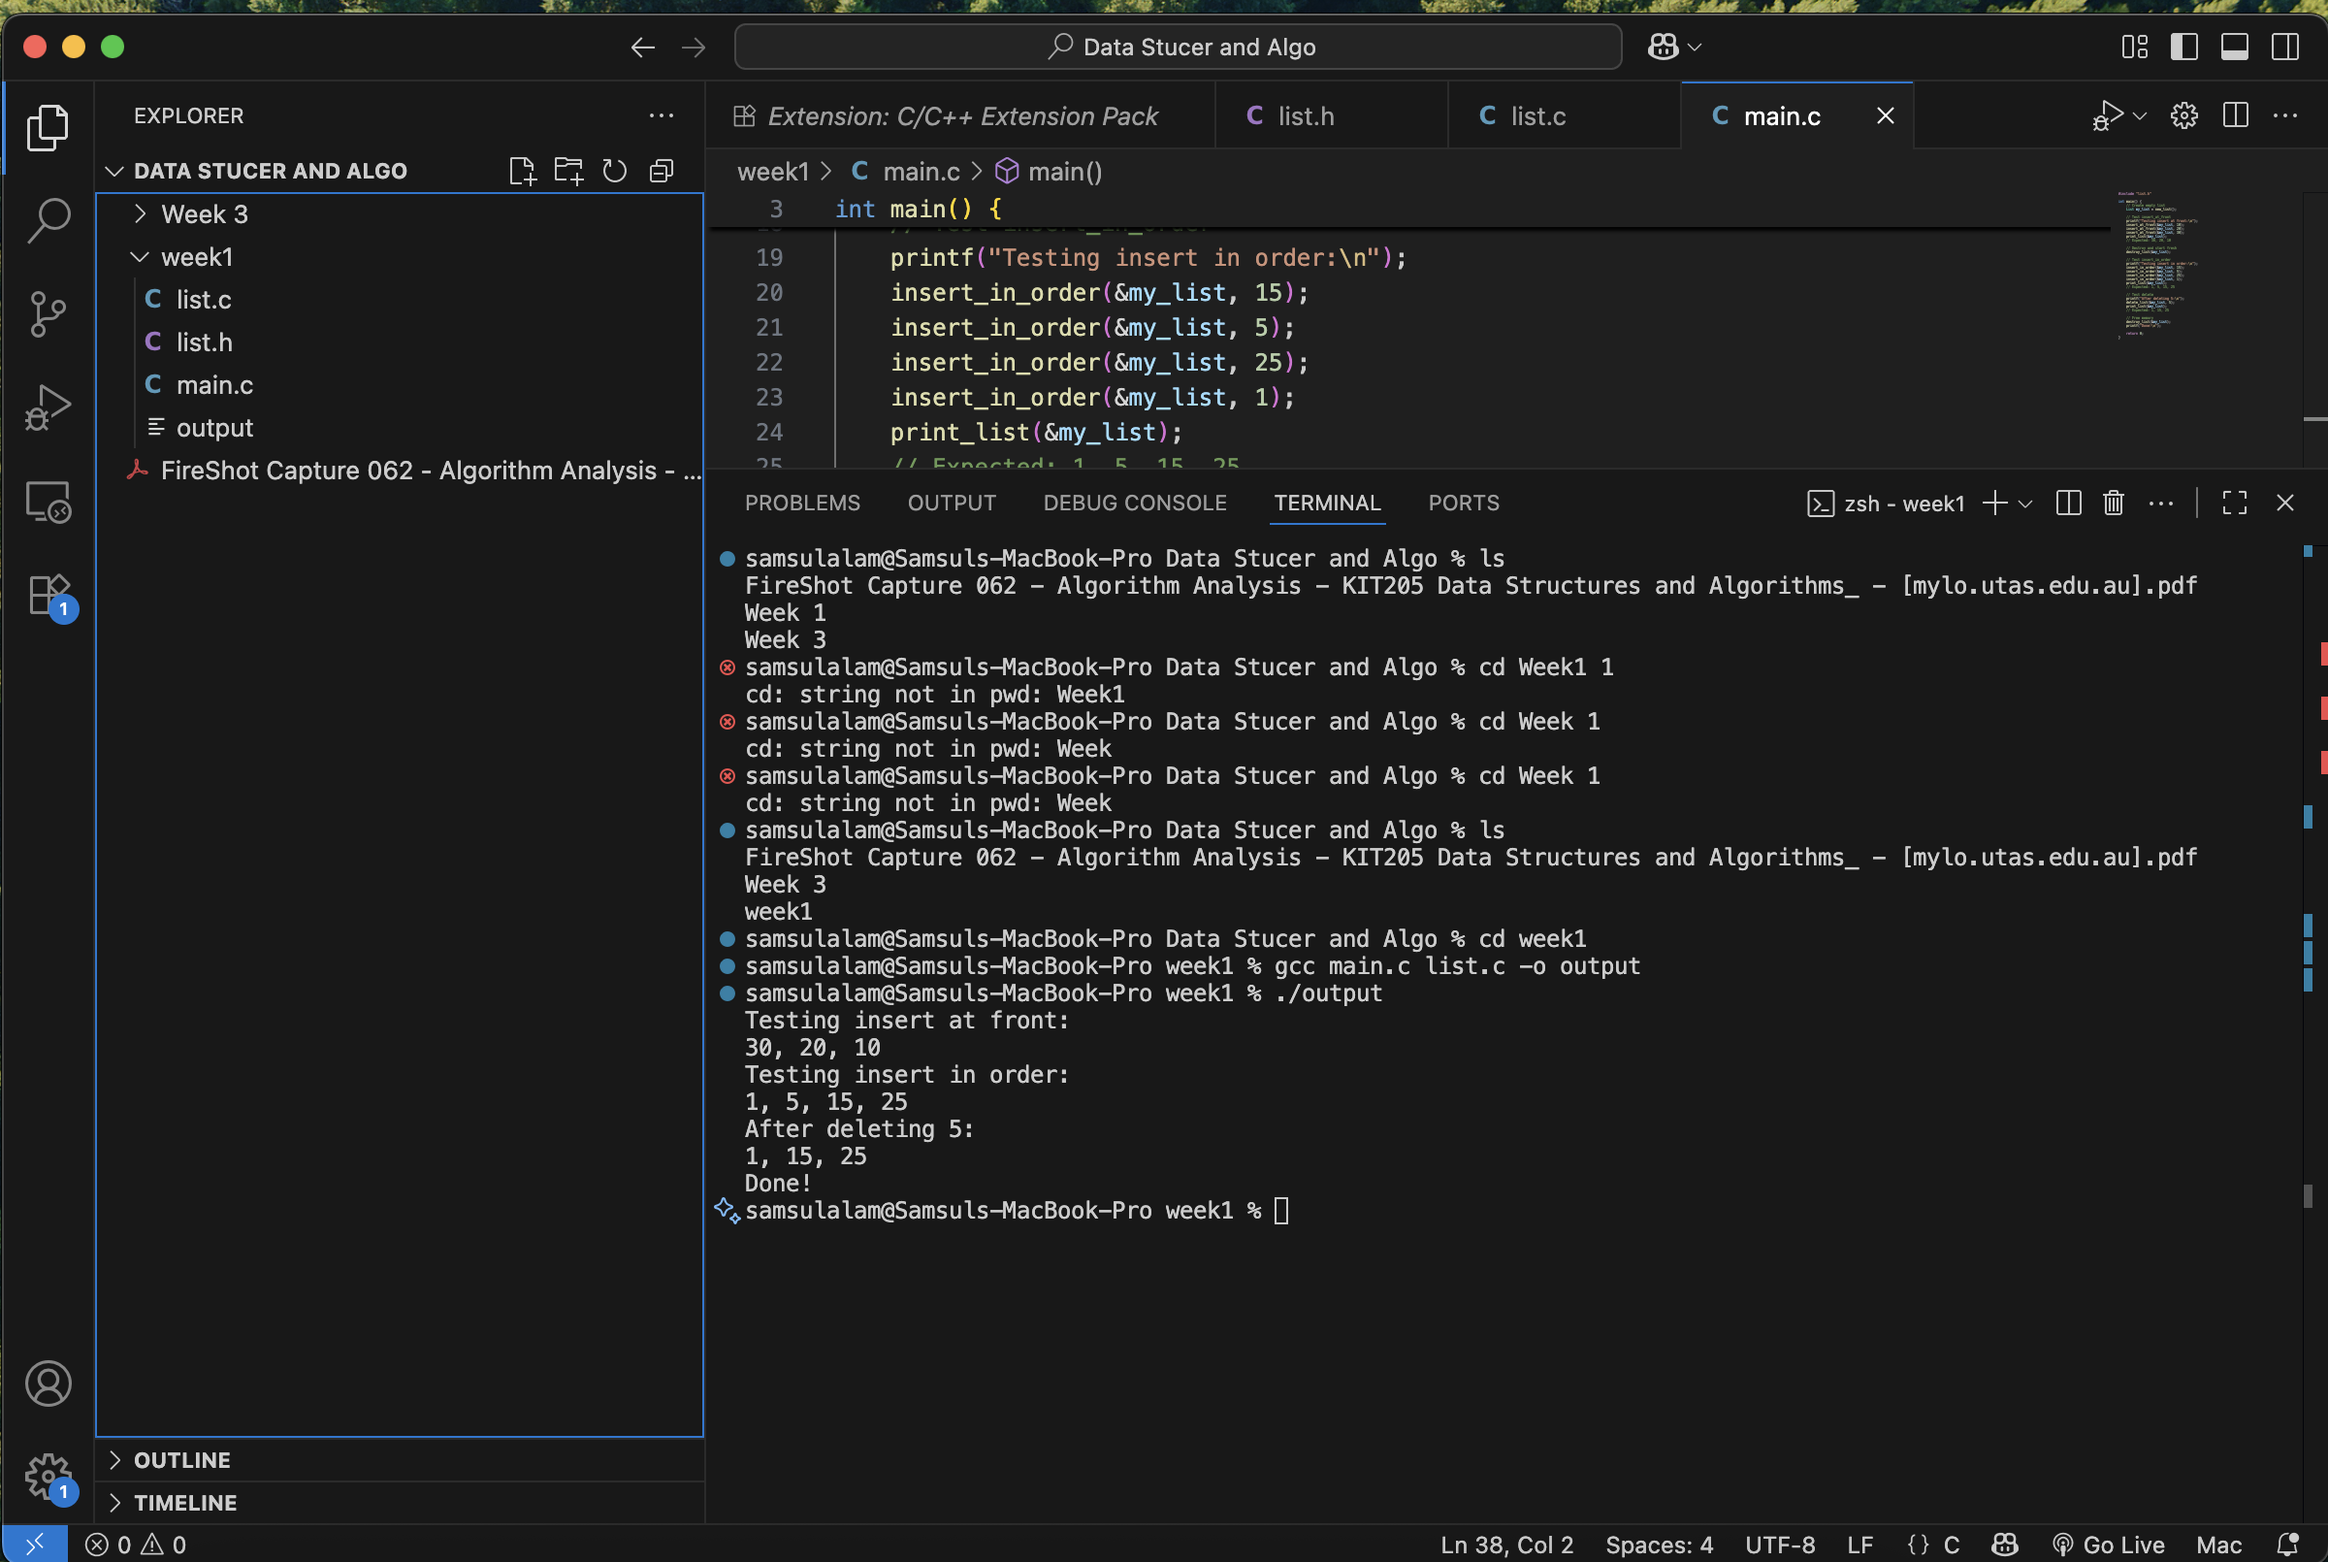
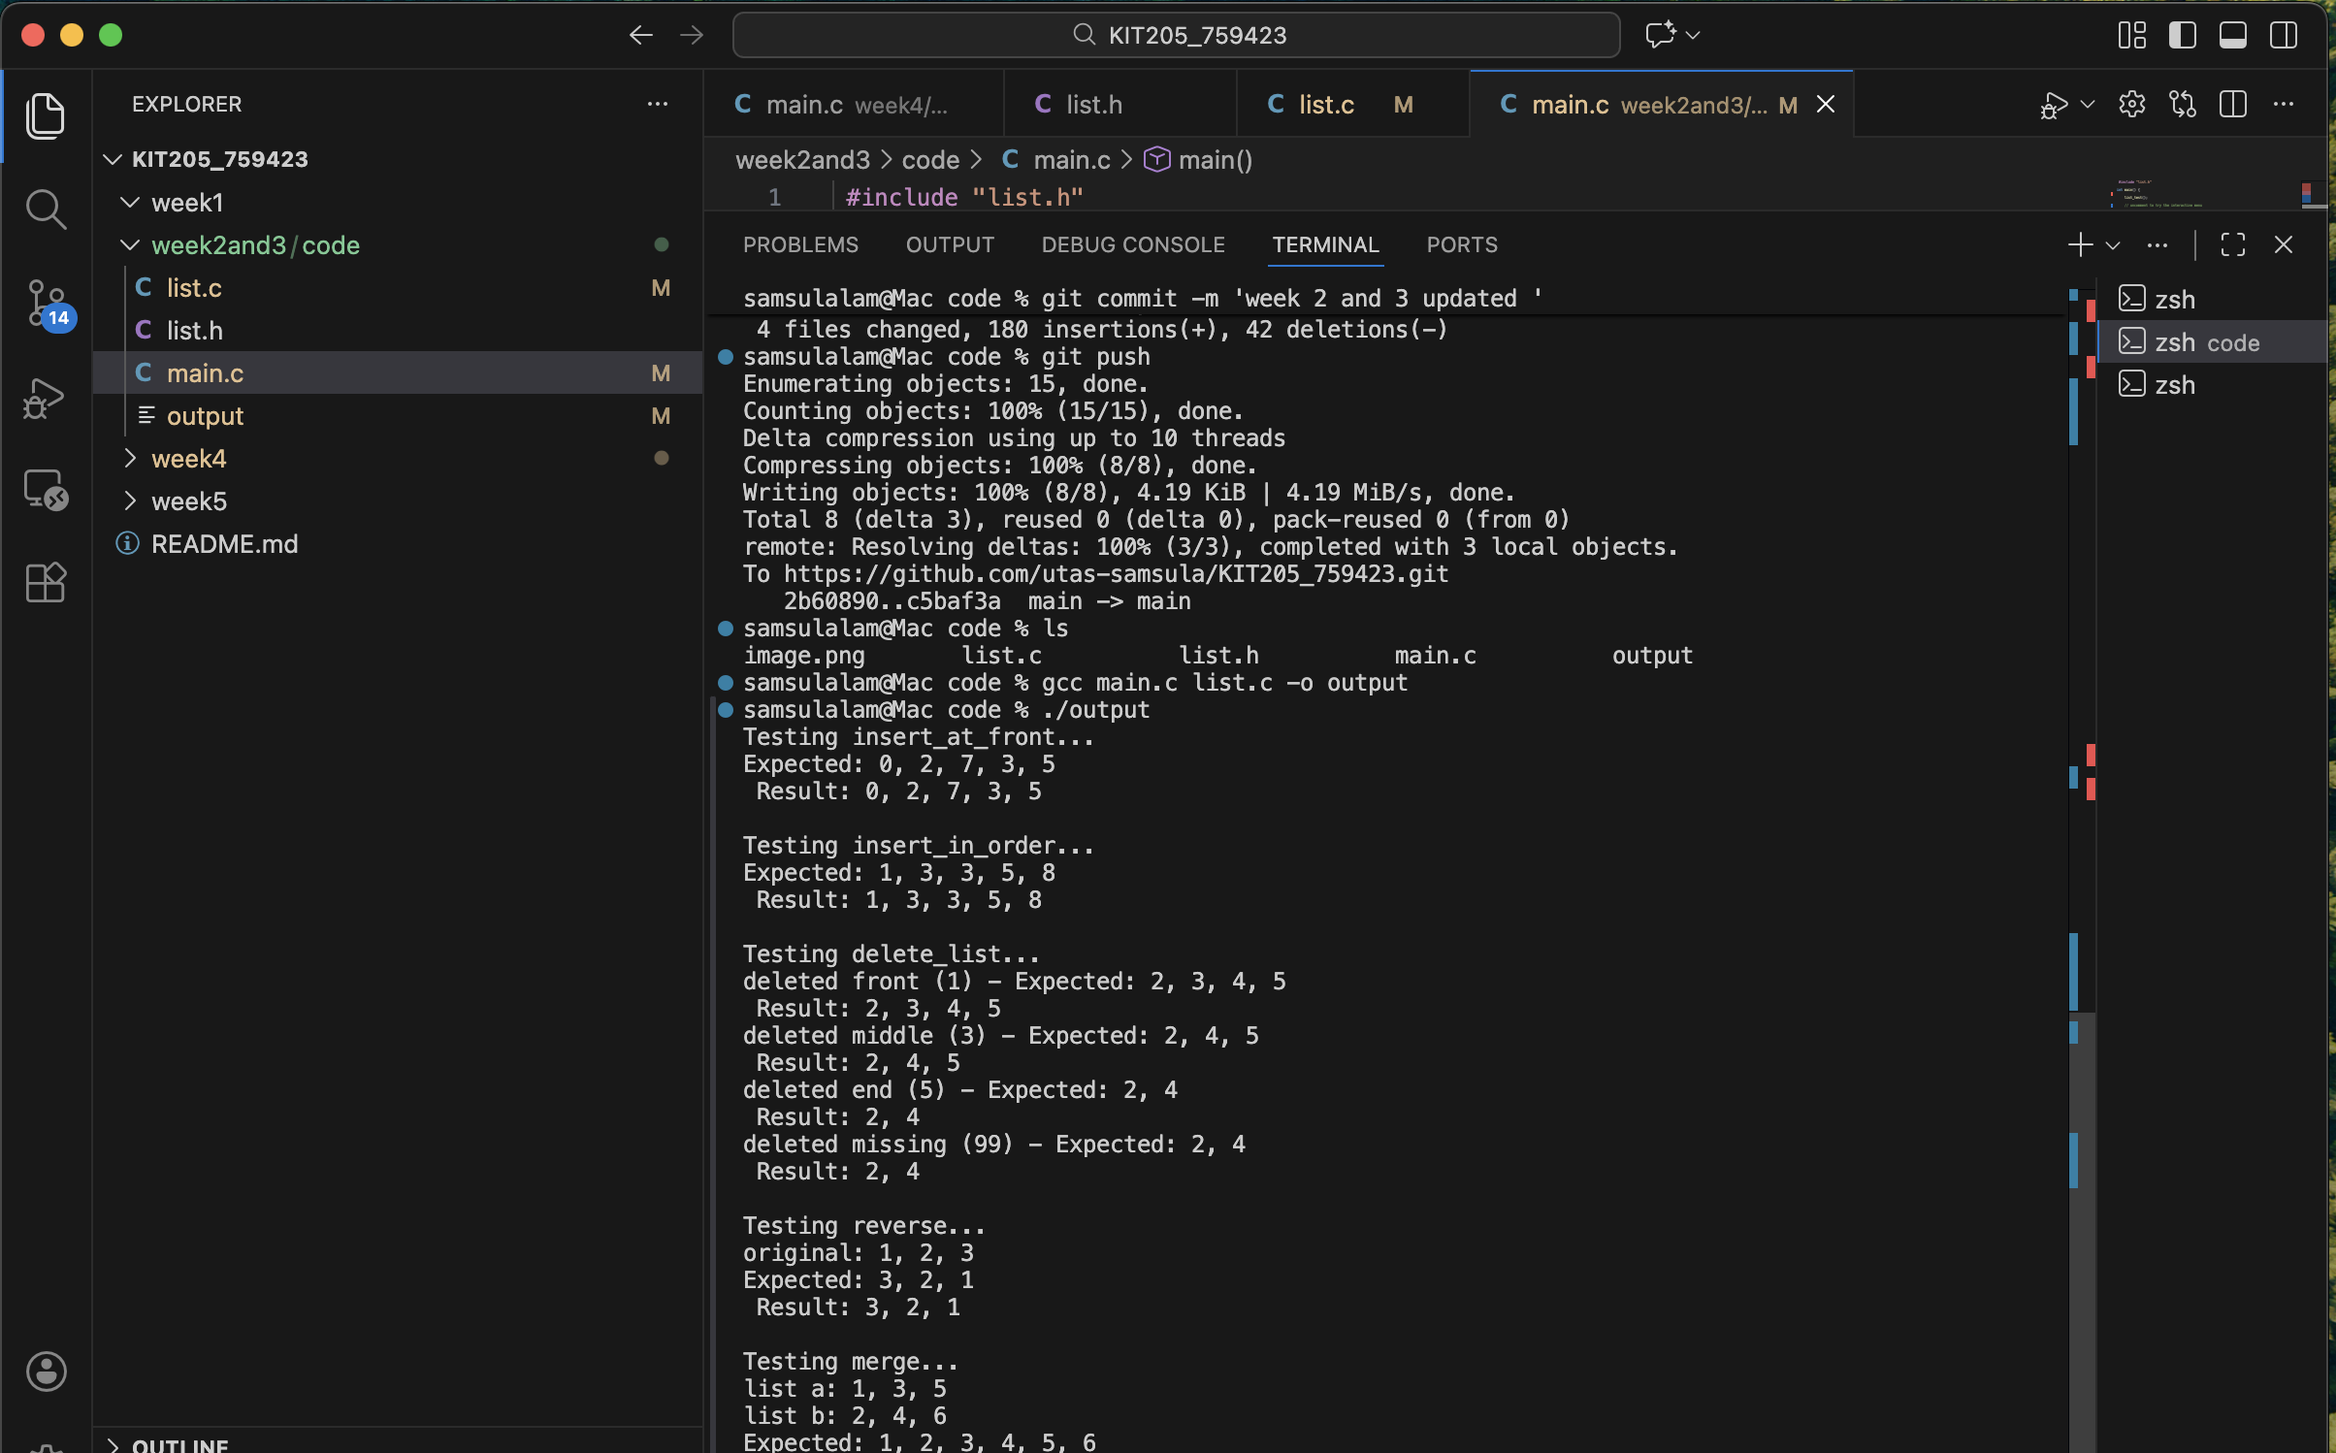
week 2 and 3 upadted again

diff --git a/week2and3/code/list.c b/week2and3/code/list.c
@@ -1,11 +1,13 @@
  #include "list.h"
 
+// makes an empty list, just sets head to null
 List new_list() {
     List temp;
     temp.head = NULL;
     return temp;
 }
 
+// walks through and prints each value
 void print_list(List *self) {
     ListNodePtr current = self->head;
     while (current != NULL) {
@@ -17,6 +19,7 @@ void print_list(List *self) {
     printf("\n");
 }
 
+// adds new node at the start, easiest and fastest way to insert
 void insert_at_front(List *self, int data) {
     ListNodePtr new_node = malloc(sizeof *new_node);
     new_node->data = data;
@@ -24,6 +27,7 @@ void insert_at_front(List *self, int data) {
     self->head = new_node;
 }
 
+// inserts in the right spot to keep list sorted
 void insert_in_order(List *self, int data) {
     ListNodePtr current = self->head;
     ListNodePtr prev = NULL;
@@ -32,6 +36,7 @@ void insert_in_order(List *self, int data) {
     new_node->data = data;
     new_node->next = NULL;
 
+    // find where to put it
     while (current != NULL && current->data < data) {
         prev = current;
         current = current->next;
@@ -46,6 +51,7 @@ void insert_in_order(List *self, int data) {
     }
 }
 
+// removes all nodes that match the value
 void delete_list(List *self, int data) {
     ListNodePtr current = self->head;
     ListNodePtr prev = NULL;
@@ -68,6 +74,7 @@ void delete_list(List *self, int data) {
     }
 }
 
+// frees every node, important to avoid memory leaks
 void destroy_list(List *self) {
     ListNodePtr current = self->head;
     while (current != NULL) {
@@ -78,8 +85,8 @@ void destroy_list(List *self) {
     self->head = NULL;
 }
 
-// reverse - builds a new list by inserting each node at front
-// so the order flips naturally
+// builds a new list by inserting each element at the front
+// so naturally comes out reversed
 List reverse(List *self) {
     List result = new_list();
     ListNodePtr current = self->head;
@@ -90,8 +97,8 @@ List reverse(List *self) {
     return result;
 }
 
-// merge - takes two sorted lists and combines into one sorted list
-// walks both lists simultaneously picking the smaller value each time
+// merges two sorted lists into one sorted list
+// goes through both at the same time, picks smaller each step
 List merge(List *list1, List *list2) {
     List merged = new_list();
     ListNodePtr c1 = list1->head;
@@ -106,6 +113,7 @@ List merge(List *list1, List *list2) {
             c2 = c2->next;
         }
     }
+    // add whatever is left over
     while (c1 != NULL) {
         insert_in_order(&merged, c1->data);
         c1 = c1->next;
@@ -117,10 +125,10 @@ List merge(List *list1, List *list2) {
     return merged;
 }
 
-// option functions for the adhoc menu
+// helper functions for the menu
 void option_insert(List *my_list) {
     int val;
-    printf("enter number to insert: ");
+    printf("enter a number: ");
     scanf("%d", &val);
     insert_at_front(my_list, val);
 }
@@ -133,37 +141,40 @@ void option_delete(List *my_list) {
 }
 
 void option_print(List *my_list) {
-    printf("list: ");
     print_list(my_list);
 }
 
-// list_test - unit tests for every function including edge cases
 void list_test() {
-    printf("=== Testing insert_at_front ===\n");
-    List l1 = new_list();
-    insert_at_front(&l1, 5);
-    insert_at_front(&l1, 3);
-    insert_at_front(&l1, 7);
-    insert_at_front(&l1, 2);
-    insert_at_front(&l1, 0);
-    printf("Expected: 0, 2, 7, 3, 5\n");
-    printf("Result:   ");
-    print_list(&l1);
-    destroy_list(&l1);
 
-    printf("\n=== Testing insert_in_order ===\n");
+    // testing insert at front
+    // tutorial said to insert 5,3,7,2,0 and expect 0,2,7,3,5
+    printf("Testing insert_at_front... \n");
+    List l = new_list();
+    insert_at_front(&l, 5);
+    insert_at_front(&l, 3);
+    insert_at_front(&l, 7);
+    insert_at_front(&l, 2);
+    insert_at_front(&l, 0);
+    printf("Expected: 0, 2, 7, 3, 5 \n");
+    printf(" Result: ");
+    print_list(&l);
+    destroy_list(&l);
+
+    // testing insert in order
+    printf("\nTesting insert_in_order... \n");
     List l2 = new_list();
     insert_in_order(&l2, 5);
     insert_in_order(&l2, 1);
     insert_in_order(&l2, 8);
     insert_in_order(&l2, 3);
-    insert_in_order(&l2, 3); // duplicate
-    printf("Expected: 1, 3, 3, 5, 8\n");
-    printf("Result:   ");
+    insert_in_order(&l2, 3);
+    printf("Expected: 1, 3, 3, 5, 8 \n");
+    printf(" Result: ");
     print_list(&l2);
     destroy_list(&l2);
 
-    printf("\n=== Testing delete_list ===\n");
+    // testing delete - need to check front middle and end cases
+    printf("\nTesting delete_list... \n");
     List l3 = new_list();
     insert_in_order(&l3, 1);
     insert_in_order(&l3, 2);
@@ -171,42 +182,45 @@ void list_test() {
     insert_in_order(&l3, 4);
     insert_in_order(&l3, 5);
 
-    delete_list(&l3, 1); // front
-    printf("delete front (1) - Expected: 2, 3, 4, 5\n");
-    printf("Result: ");
+    delete_list(&l3, 1);
+    printf("deleted front (1) - Expected: 2, 3, 4, 5\n");
+    printf(" Result: ");
     print_list(&l3);
 
-    delete_list(&l3, 3); // middle
-    printf("delete middle (3) - Expected: 2, 4, 5\n");
-    printf("Result: ");
+    delete_list(&l3, 3);
+    printf("deleted middle (3) - Expected: 2, 4, 5\n");
+    printf(" Result: ");
     print_list(&l3);
 
-    delete_list(&l3, 5); // end
-    printf("delete end (5) - Expected: 2, 4\n");
-    printf("Result: ");
+    delete_list(&l3, 5);
+    printf("deleted end (5) - Expected: 2, 4\n");
+    printf(" Result: ");
     print_list(&l3);
 
-    delete_list(&l3, 99); // value not in list
-    printf("delete missing (99) - Expected: 2, 4\n");
-    printf("Result: ");
+    // what happens if the value isnt in the list
+    delete_list(&l3, 99);
+    printf("deleted missing (99) - Expected: 2, 4\n");
+    printf(" Result: ");
     print_list(&l3);
     destroy_list(&l3);
 
-    printf("\n=== Testing reverse ===\n");
+    // testing reverse
+    printf("\nTesting reverse... \n");
     List l4 = new_list();
     insert_at_front(&l4, 3);
     insert_at_front(&l4, 2);
     insert_at_front(&l4, 1);
-    printf("Original: ");
+    printf("original: ");
     print_list(&l4);
     List rev = reverse(&l4);
     printf("Expected: 3, 2, 1\n");
-    printf("Result:   ");
+    printf(" Result: ");
     print_list(&rev);
     destroy_list(&l4);
     destroy_list(&rev);
 
-    printf("\n=== Testing merge ===\n");
+    // testing merge with two sorted lists
+    printf("\nTesting merge... \n");
     List a = new_list();
     List b = new_list();
     insert_in_order(&a, 1);
@@ -215,20 +229,19 @@ void list_test() {
     insert_in_order(&b, 2);
     insert_in_order(&b, 4);
     insert_in_order(&b, 6);
-    printf("List a: ");
+    printf("list a: ");
     print_list(&a);
-    printf("List b: ");
+    printf("list b: ");
     print_list(&b);
     List m = merge(&a, &b);
     printf("Expected: 1, 2, 3, 4, 5, 6\n");
-    printf("Result:   ");
+    printf(" Result: ");
     print_list(&m);
     destroy_list(&a);
     destroy_list(&b);
     destroy_list(&m);
 }
 
-// adhoc test - interactive menu driven testing
 void list_adhoc_test() {
     List my_list = new_list();
     int quit = 0;

diff --git a/week2and3/code/main.c b/week2and3/code/main.c
@@ -2,10 +2,9 @@
 
 int main() {
 
-    // run unit tests
     list_test();
 
-    // uncomment to run interactive menu instead
+    // uncomment to try the interactive menu
     // list_adhoc_test();
 
     return 0;
